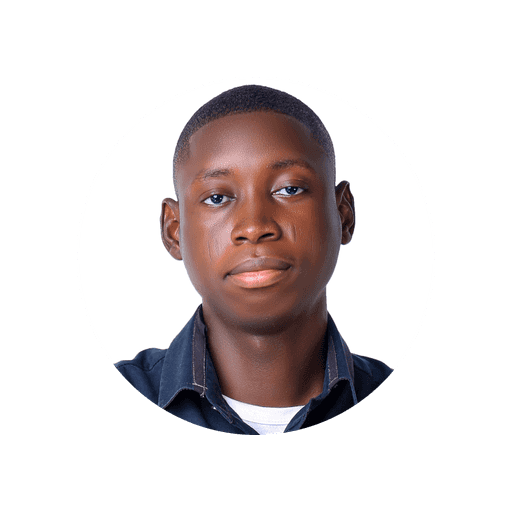
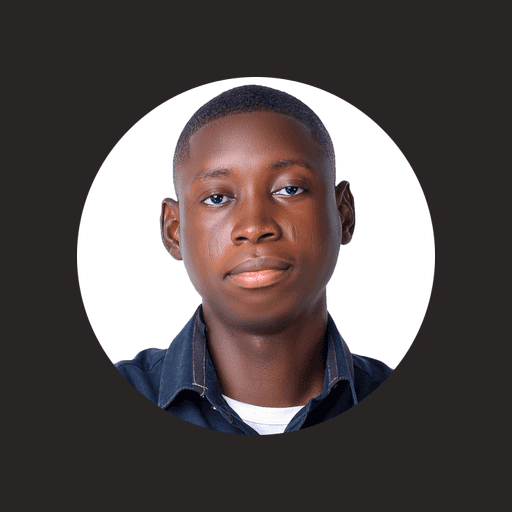
Generate assets with background color

diff --git a/pwa-assets.config.js b/pwa-assets.config.js
@@ -1,4 +1,7 @@
 import { defineConfig } from "@vite-pwa/assets-generator/config";
+import { loadEnv } from "vite";
+
+const env = loadEnv(null, process.cwd());
 
 export default defineConfig({
   preset: {
@@ -9,13 +12,13 @@ export default defineConfig({
     maskable: {
       sizes: [512],
       resizeOptions: {
-        background: { r: 0, g: 0, b: 0, alpha: 0 },
+        background: env.VITE_PWA_MANIFEST_BACKGROUND_COLOR,
       },
     },
     apple: {
       sizes: [180],
       resizeOptions: {
-        background: { r: 0, g: 0, b: 0, alpha: 0 },
+        background: env.VITE_PWA_MANIFEST_BACKGROUND_COLOR,
       },
     },
   },
